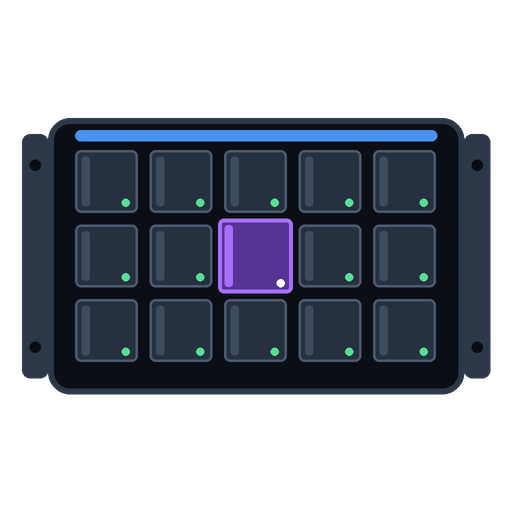
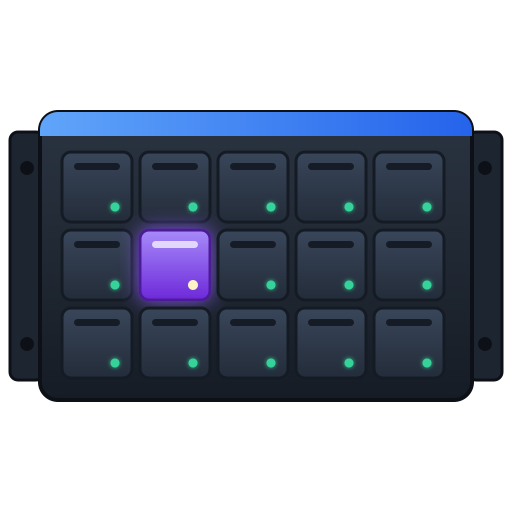
Docs accuracy audit after v1.5.0-1.5.2
- README env table gains KTN_TRUENAS_REST_FALLBACK; the bootstrap paragraph
  now mentions the change-password / sign-out-everywhere remedies; the
  uninstall example no longer pins :1.4.0 (it survived three releases -
  a new version-consistency test keeps the README version-neutral forever).
- ARCHITECTURE.md: the REST fallback is described as opt-in, off by default.
- SUBMISSION-TEXTS.md ready-to-paste PR text: App Version 1.3.4 -> 1.5.2.
- docs/images icon set (icon.png + 32/64/128/256/512) regenerated from the
  new vector icon so the README header matches the shipped art.
- Screenshots audited: drive-map/bay-detail/chassis/diagnostics/mobile show
  views v1.5.x did not change; no regeneration needed.

Claude-Session: https://claude.ai/code/session_014UDohyzVGaVnDkpcLJ4g3V

diff --git a/tests/test_version_consistency.py b/tests/test_version_consistency.py
@@ -112,3 +112,16 @@ def test_ci_python_matches_the_shipped_runtime() -> None:
         f"CI tests on {sorted(ci_versions)} but the image ships "
         f"{sorted(image_versions)}"
     )
+
+
+def test_readme_never_pins_an_image_tag() -> None:
+    """The README must stay version-neutral about the image.
+
+    It sat outside this file's checks and promptly drifted: an uninstall
+    example pinned :1.4.0 and survived three releases. Prose that names a
+    specific tag goes stale silently; commands in the README must work on
+    whatever version the reader runs.
+    """
+    text = (ROOT / "README.md").read_text()
+    tags = re.findall(rf"{re.escape(IMAGE)}:(\S+)", text)
+    assert not tags, f"README pins image tag(s) {tags}; keep it version-neutral"

diff --git a/README.md b/README.md
@@ -71,7 +71,10 @@ docker compose up -d
 ```
 
 Then open `http://<truenas>:8420` and **create the administrator account** — the
-first run has no account and no default password.
+first run has no account and no default password. The account dialog (top
+right) can change the password or **sign the account out everywhere** — both
+end every existing session, so a suspected stolen cookie has a remedy that
+does not force a credential rotation.
 
 Prefer an open dashboard with no login, the way scrutiny and most TrueNAS
 monitoring apps work? Set `KTN_AUTH_REQUIRED=false`. The Identify LED write
@@ -110,6 +113,7 @@ annotated list. The essentials:
 |---|---|
 | `KTN_TRUENAS_URL` / `KTN_TRUENAS_API_KEY` | pool, vdev, ZFS error and SMART data. Leave empty to run without. Use a least-privilege key — see [SECURITY.md](SECURITY.md#the-truenas-api-key-use-a-least-privilege-one) |
 | `KTN_TRUENAS_VERIFY_TLS` | defaults to `true`. If it fails, connect by the name on the certificate rather than by IP — see [SECURITY.md](SECURITY.md#tls-connect-by-the-name-on-the-certificate) |
+| `KTN_TRUENAS_REST_FALLBACK` | defaults to `false`. Legacy REST fallback for the JSON-RPC transport; only useful with a full-access key, and REST is removed in TrueNAS 26.04 — see `.env.example` |
 | `KTN_SG_DEVICE` | SES device node to expose to the container |
 | `KTN_ENCLOSURE_ALLOWLIST` | restrict management to specific enclosure ids |
 | `KTN_POLL_*_SECONDS` | polling intervals (5 / 20 / 30 / 120 by default) |
@@ -229,7 +233,7 @@ git pull && docker compose build && docker compose up -d
 tar czf ktn-backup.tgz data/
 
 # uninstall (removes the app; touches nothing on the host)
-docker compose down && docker rmi ghcr.io/mechanicalcoderx/ktn-enclosure-manager:1.4.0
+docker compose down --rmi all
 ```
 
 State lives entirely in `/data`. The application creates no host files, no

diff --git a/ARCHITECTURE.md b/ARCHITECTURE.md
@@ -40,7 +40,7 @@ backend/ktnmgr/
     ses.py               allow-listed sg_ses execution (local and via helper)
     ses_parser.py        configuration + join page parsers
   truenas/
-    client.py            JSON-RPC over WebSocket, REST v2.0 fallback
+    client.py            JSON-RPC over WebSocket; opt-in legacy REST fallback (off by default)
     correlate.py         pool/vdev/SMART attribution onto block devices
   services/
     state.py             polling, caching, composition of the Bay view

diff --git a/truenas/catalog-app/SUBMISSION-TEXTS.md b/truenas/catalog-app/SUBMISSION-TEXTS.md
@@ -103,7 +103,7 @@ Choose the **🚀 App Addition** template, then paste:
 >
 > - **Upstream**: https://github.com/MechanicalCoderX/ktn-enclosure-manager
 > - **Documentation**: https://github.com/MechanicalCoderX/ktn-enclosure-manager#readme
-> - **App Version**: 1.3.4
+> - **App Version**: 1.5.2
 >
 > ## Testing
 >
